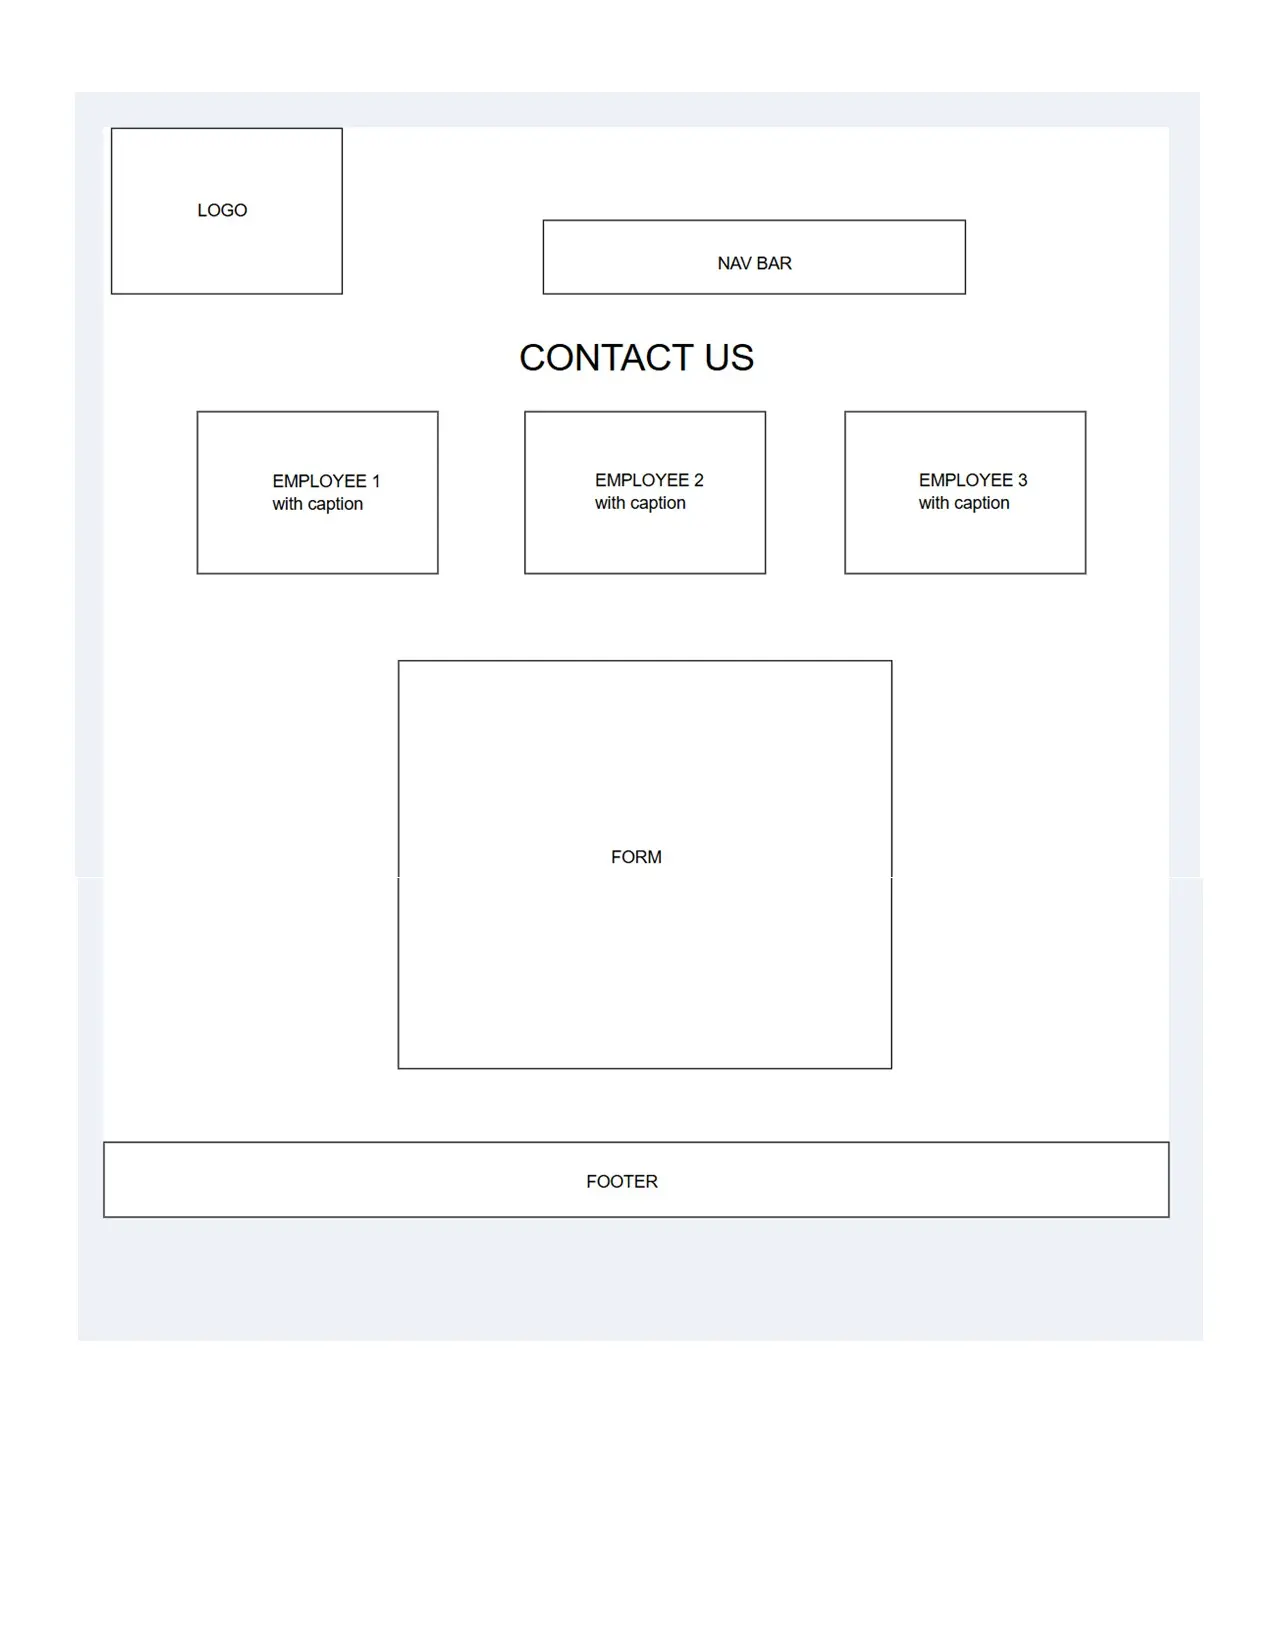
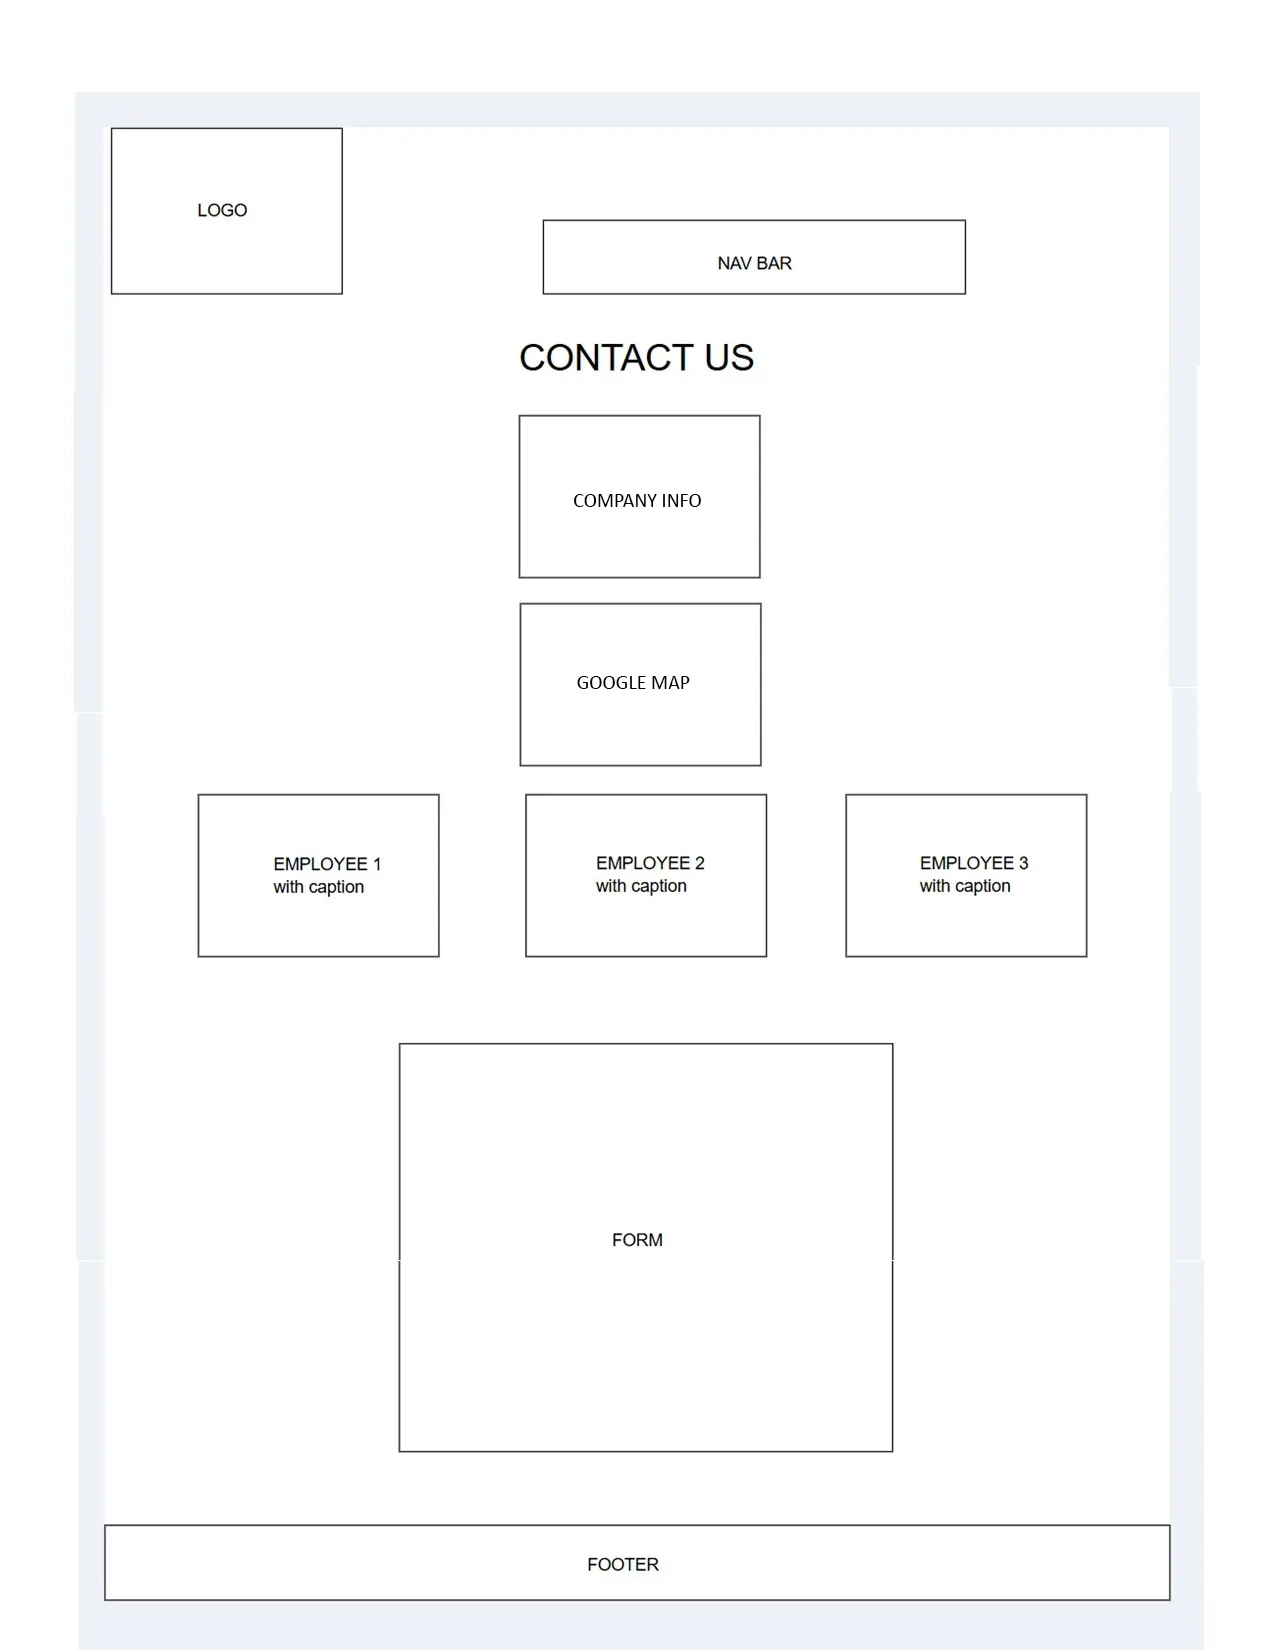
submit 2 4-8-25

diff --git a/wwr/contact.html b/wwr/contact.html
@@ -5,7 +5,7 @@
 <head>
   <meta charset="utf-8">
   <meta name="viewport" content="width=device-width,initial-scale=1.0">
-  <title>Alan Taggard | Rafting Websire Contact Us page</title>
+  <title>Alan Taggard | Rafting Website Contact Us page</title>
   <meta name="author" content="Alan Taggard">
   <meta name="description" content="Rafting Website Contact Us page">
   <link rel="stylesheet" href="styles/rafting.css">
@@ -31,21 +31,31 @@
   </header>
   <main>
     <h2><br>CONTACT US</h2>
+    <div class="address">
+      <p>RAPID RAFTING ADVENTURES<p>
+      <p>123 Main St.</p>
+      <p>Boulder City, Nevada, 89005</p>
+      <p>Phone: 702-555-1212</p>
+      <p>E-mail: info@rapidrafting.com</p><br>
+    </div>
+    <div class="map">
+      <iframe src="https://www.google.com/maps/embed?pb=!1m18!1m12!1m3!1d103285.97466452373!2d-114.79674373024373!3d36.00352086001626!2m3!1f0!2f0!3f0!3m2!1i1024!2i768!4f13.1!3m3!1m2!1s0x80ced3f514d594d3%3A0xe790be016770965!2sBoulder%20City%2C%20NV%2089005!5e0!3m2!1sen!2sus!4v1744125193430!5m2!1sen!2sus" width="600" height="450" allowfullscreen="" loading="lazy" referrerpolicy="no-referrer-when-downgrade"></iframe>
+    </div>
     <div class="grid-container-emp">
       <figure>
-        <img src="images/employee1.webp" alt="Employee 1" width=300 style="border: 2px solid #000">
+        <br><br><img src="images/employee1.webp" alt="Employee 1" width=300 style="border: 2px solid #000">
         <figcaption class="myfigcaption">
           Mike Johnson - CEO
         </figcaption>
       </figure>
       <figure>
-        <img src="images/employee2.webp" alt="CEO" width=300 style="border: 2px solid #000">
+        <br><br><img src="images/employee2.webp" alt="CEO" width=300 style="border: 2px solid #000">
         <figcaption class="myfigcaption">
           Sally Allen - VP Marketing
         </figcaption>
       </figure>
       <figure>
-        <img src="images/employee3.webp" alt="VP Marketing" width=300 style="border: 2px solid #000">
+        <br><br><img src="images/employee3.webp" alt="VP Marketing" width=300 style="border: 2px solid #000">
         <figcaption class="myfigcaption">
           Kim Harper - VP Operations
         </figcaption>
@@ -80,12 +90,12 @@
           <textarea id="message" name="message" rows="4" cols="60" placeholder="Message"></textarea>
         </div>
         <div class="form-item">
-           <br><label for="subscribe">Please subscribe me to the monthly newsletter:</label>
-           <input type="checkbox" id="subscribe" name="subscribe">
+          <br><label for="subscribe">Please subscribe me to the monthly newsletter:</label>
+          <input type="checkbox" id="subscribe" name="subscribe">
         </div>
       </fieldset>
       <button type="submit">Submit Poll</button><br>
-    </form>
+    </form><br>
   </main>
   <footer>
     <p> </p>
@@ -104,4 +114,5 @@
     </nav>
   </footer>
 </body>
+
 </html>

diff --git a/wwr/styles/rafting.css b/wwr/styles/rafting.css
@@ -127,6 +127,12 @@ p {
     column-span:all;
     margin-left:80px;
 }
+.map {
+    display: block;
+    margin: auto;
+    margin-left: 420px;
+    width: 50%;
+}
 h2 {
     color: #1B264F;
     text-align: center;
@@ -137,7 +143,15 @@ h2 {
 .myfigcation {
     color:white";
 }
-
+.address {
+    color: #1B264F;
+    margin-left: 565px;
+    text-align: left;
+    font-size: 3rem;
+    font-family: "Mulish";
+    font-style: normal;
+    line-height: 8pt;
+}
 footer {
     display: grid;
     grid-template-columns: 1fr 1fr 1fr;
